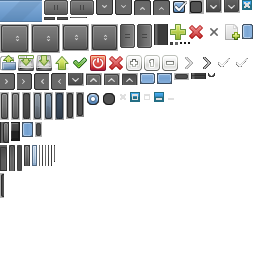
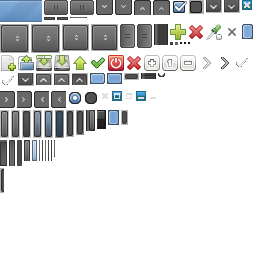
Fixed UIMenu::remove() and UIMenu::removeAll() crashes. Fixed UIImage size bugs. Minor improvements in UIEditor. Started implementing the color picker UI. Fix when closing a Scene::Node when mouse was over that Node.
--HG--
branch : dev

diff --git a/src/tools/uieditor/uieditor.cpp b/src/tools/uieditor/uieditor.cpp
@@ -80,16 +80,12 @@ void loadConfig() {
 	ini.loadFromFile( path );
 	ini.readFile();
 
-	std::string recent = ini.getValue( "UIEDITOR", "recentfiles", "" );
-	std::vector<std::string> files = String::split( recent, ';' );
-
-	recentProjects = files;
+	std::string recent = ini.getValue( "UIEDITOR", "recentprojects", "" );
+	recentProjects = String::split( recent, ';' );
 }
 
 void saveConfig() {
-	std::string files = String::join( recentProjects, ';' );
-
-	ini.setValue( "UIEDITOR", "recentfiles", files );
+	ini.setValue( "UIEDITOR", "recentprojects", String::join( recentProjects, ';' ) );
 	ini.writeFile();
 }
 
@@ -227,6 +223,10 @@ static void loadLayout( std::string file ) {
 
 static void refreshLayout() {
 	if ( !currentLayout.empty() && FileSystem::fileExists( currentLayout ) && uiContainer != NULL ) {
+		if ( !currentStyleSheet.empty() && FileSystem::fileExists( currentStyleSheet ) && uiContainer != NULL ) {
+			loadStyleSheet( currentStyleSheet );
+		}
+
 		loadLayout( currentLayout );
 	}
 
@@ -236,6 +236,10 @@ static void refreshLayout() {
 static void refreshStyleSheet() {
 	if ( !currentStyleSheet.empty() && FileSystem::fileExists( currentStyleSheet ) && uiContainer != NULL ) {
 		loadStyleSheet( currentStyleSheet );
+
+		if ( !currentLayout.empty() && FileSystem::fileExists( currentLayout ) && uiContainer != NULL ) {
+			loadLayout( currentLayout );
+		}
 	}
 
 	updateStyleSheet = false;
@@ -383,7 +387,7 @@ void refreshLayoutList() {
 
 			chk->setActive( currentLayout == it->second );
 		}
-	} else if ( uiWinMenu->getButton( "Layouts" ) == NULL ) {
+	} else if ( uiWinMenu->getButton( "Layouts" ) != NULL ) {
 		uiWinMenu->removeMenuButton( "Layouts" );
 	}
 
@@ -534,8 +538,12 @@ void loadProject( std::string projectPath ) {
 		if ( result ) {
 			loadProjectNodes( doc.first_child() );
 
-			if ( recentProjects.size() > 0 && recentProjects[0] == projectPath )
-				return;
+			for ( auto pathIt = recentProjects.begin(); pathIt != recentProjects.end(); pathIt++ ) {
+				if ( *pathIt == projectPath ) {
+					recentProjects.erase(pathIt);
+					break;
+				}
+			}
 
 			recentProjects.insert( recentProjects.begin(), projectPath );
 

diff --git a/src/eepp/ui/uiimage.cpp b/src/eepp/ui/uiimage.cpp
@@ -2,6 +2,7 @@
 #include <eepp/graphics/drawable.hpp>
 #include <eepp/graphics/sprite.hpp>
 #include <eepp/graphics/drawablesearcher.hpp>
+#include <eepp/ui/uithememanager.hpp>
 
 namespace EE { namespace UI {
 
@@ -25,6 +26,8 @@ UIImage::UIImage( const std::string& tag ) :
 	mFlags |= UI_AUTO_SIZE;
 
 	onAutoSize();
+
+	applyDefaultTheme();
 }
 
 UIImage::UIImage() :
@@ -74,11 +77,11 @@ void UIImage::onAutoSize() {
 		}
 
 		if ( mLayoutWidthRules == WRAP_CONTENT ) {
-			setInternalPixelsWidth( (int)mDrawable->getSize().getWidth() + mRealPadding.Left + mRealPadding.Right );
+			setInternalPixelsWidth( (int)PixelDensity::dpToPx( mDrawable->getSize().getWidth() ) + mRealPadding.Left + mRealPadding.Right );
 		}
 
 		if ( mLayoutHeightRules == WRAP_CONTENT ) {
-			setInternalPixelsHeight( (int)mDrawable->getSize().getHeight() + mRealPadding.Top + mRealPadding.Bottom );
+			setInternalPixelsHeight( (int)PixelDensity::dpToPx( mDrawable->getSize().getHeight() ) + mRealPadding.Top + mRealPadding.Bottom );
 		}
 	}
 }
@@ -106,7 +109,7 @@ void UIImage::calcDestSize() {
 		if ( NULL == mDrawable)
 			return;
 
-		mDestSize = mDrawable->getSize();
+		mDestSize = PixelDensity::dpToPx( mDrawable->getSize() );
 	}
 
 	mDestSize = mDestSize.floor();
@@ -219,6 +222,15 @@ bool UIImage::setAttribute( const NodeAttribute& attribute, const Uint32& state 
 				mDrawableOwner = true;
 
 			setDrawable( res );
+		}
+	} else if ( "icon" == name ) {
+		std::string val = attribute.asString();
+		Drawable * icon = NULL;
+
+		if ( NULL != mTheme && NULL != ( icon = mTheme->getIconByName( val ) ) ) {
+			setDrawable( icon );
+		} else if ( NULL != ( icon = DrawableSearcher::searchByName( val ) ) ) {
+			setDrawable( icon );
 		}
 	} else if ( "scale-type" == name || "scaletype" == name ) {
 		std::string val = attribute.asString();

diff --git a/src/eepp/scene/node.cpp b/src/eepp/scene/node.cpp
@@ -34,12 +34,15 @@ Node::Node() :
 }
 
 Node::~Node() {
-	if ( !SceneManager::instance()->isShootingDown() ) {
-		if ( NULL != mSceneNode && mSceneNode != this && NULL != mSceneNode->getActionManager() )
+	if ( !SceneManager::instance()->isShootingDown() && NULL != mSceneNode ) {
+		if ( mSceneNode != this && NULL != mSceneNode->getActionManager() )
 			mSceneNode->getActionManager()->removeAllActionsFromTarget(this);
 
-		if ( NULL != mSceneNode && (mNodeFlags & NODE_FLAG_SCHEDULED_UPDATE) )
+		if ( mNodeFlags & NODE_FLAG_SCHEDULED_UPDATE )
 			mSceneNode->unsubscribeScheduledUpdate(this);
+
+		if ( isMouseOverMeOrChilds() )
+			mSceneNode->removeMouseOverNode( this );
 	}
 
 	childDeleteAll();

diff --git a/src/eepp/ui/uiscenenode.cpp b/src/eepp/ui/uiscenenode.cpp
@@ -4,9 +4,9 @@
 #include <eepp/window/window.hpp>
 #include <eepp/system/packmanager.hpp>
 #include <eepp/system/filesystem.hpp>
-#include <pugixml/pugixml.hpp>
 #include <eepp/ui/uiwidgetcreator.hpp>
 #include <eepp/ui/css/stylesheetparser.hpp>
+#include <pugixml/pugixml.hpp>
 #include <algorithm>
 
 namespace EE { namespace UI {
@@ -110,6 +110,8 @@ UIWidget * UISceneNode::loadLayoutNodes( pugi::xml_node node, Node * parent ) {
 
 			uiwidget->reloadStyle( false );
 			uiwidget->onWidgetCreated();
+		} else if ( String::toLower( widget.name() ) == "style" ) {
+			combineStyleSheet( widget.text().as_string() );
 		}
 	}
 

diff --git a/src/eepp/graphics/texturefactory.cpp b/src/eepp/graphics/texturefactory.cpp
@@ -13,14 +13,13 @@ namespace EE { namespace Graphics {
 SINGLETON_DECLARE_IMPLEMENTATION(TextureFactory)
 
 TextureFactory::TextureFactory() :
+	mCurrentTexture(EE_MAX_TEXTURE_UNITS),
 	mMemSize(0),
 	mLastCoordinateType( Texture::CoordinateType::Normalized ),
 	mErasing(false)
 {
 	mTextures.clear();
 	mTextures.push_back( NULL );
-
-	memset( &mCurrentTexture[0], 0, EE_MAX_TEXTURE_UNITS );
 }
 
 const Texture::CoordinateType & TextureFactory::getLastCoordinateType() const {

diff --git a/src/eepp/ui/uimenu.cpp b/src/eepp/ui/uimenu.cpp
@@ -216,7 +216,7 @@ Uint32 UIMenu::getCount() const {
 void UIMenu::remove( const Uint32& Index ) {
 	eeASSERT( Index < mItems.size() );
 
-	eeSAFE_DELETE( mItems[ Index ] );
+	mItems[ Index ]->close();
 
 	mItems.erase( mItems.begin() + Index );
 
@@ -235,7 +235,7 @@ void UIMenu::remove( UINode * Ctrl ) {
 
 void UIMenu::removeAll() {
 	for ( Uint32 i = 0; i < mItems.size(); i++ ) {
-		eeSAFE_DELETE( mItems[ i ] );
+		mItems[ i ]->close();
 	}
 
 	mItems.clear();

diff --git a/src/eepp/ui/css/stylesheet.cpp b/src/eepp/ui/css/stylesheet.cpp
@@ -29,7 +29,7 @@ void StyleSheet::combineStyle( const StyleSheetStyle& node ) {
 	} else {
 		auto& currentNode = nodeIt->second;
 
-		if ( node.getSelector().getSpecificity() > currentNode.getSelector().getSpecificity() ) {
+		if ( node.getSelector().getSpecificity() >= currentNode.getSelector().getSpecificity() ) {
 			for ( auto& pit : node.getProperties() )
 				currentNode.setProperty( pit.second );
 		}

diff --git a/include/eepp/graphics/texturefactory.hpp b/include/eepp/graphics/texturefactory.hpp
@@ -197,7 +197,7 @@ class EE_API TextureFactory : protected Mutex {
 
 		TextureFactory();
 
-		int mCurrentTexture[ EE_MAX_TEXTURE_UNITS ];
+		std::vector<int> mCurrentTexture;
 
 		std::vector<Texture*> mTextures;
 
